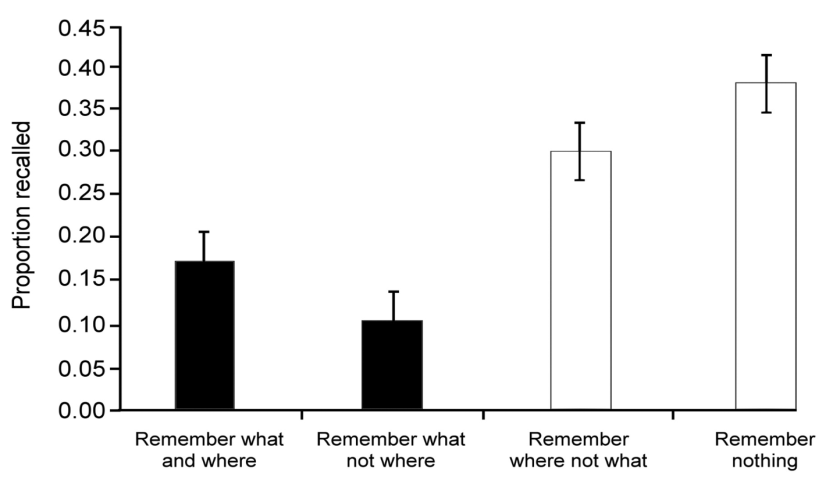
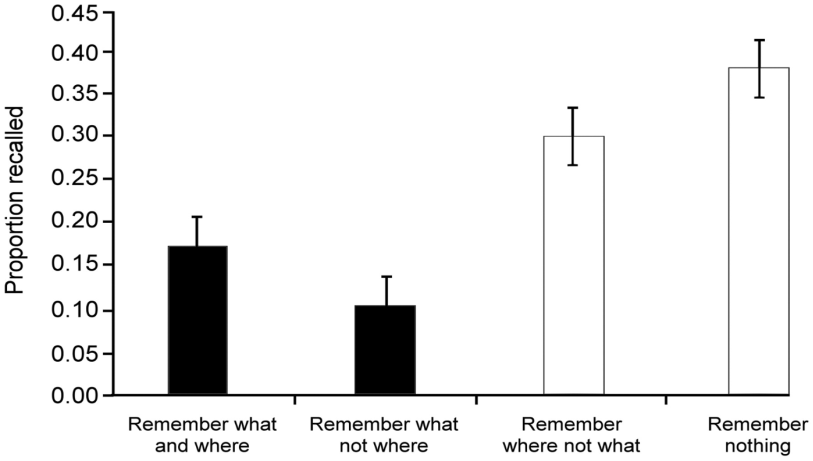
Standardize article figure presentation

Changed region(s): [[0.0, 0.0, 1.0, 1.0], [0.615, 0.9111, 0.7995, 1.0], [0.369, 0.9111, 0.5843, 1.0]]

diff --git a/articles/over-reliance-on-ai-and-student-cognition.html b/articles/over-reliance-on-ai-and-student-cognition.html
@@ -4,7 +4,7 @@
     <meta charset="UTF-8">
     <meta name="viewport" content="width=device-width, initial-scale=1.0">
     <title>Over-Reliance on AI and the Decline of Student Cognitive Skills — The Behavioral Review</title>
-    <meta name="description" content="Karthikeya R. Nandi examines how over-reliance on AI in education may weaken students' critical thinking and decision-making, and outlines practical solutions for preserving cognitive skills.">
+    <meta name="description" content="Karthikeya Nandi examines how over-reliance on AI in education may weaken students' critical thinking and decision-making, and outlines practical solutions for preserving cognitive skills.">
     <meta name="keywords" content="Artificial Intelligence, Education, Critical Thinking, Decision-Making, Cognitive Psychology, Student Learning, Technology, Higher Education">
     <meta property="og:title" content="Over-Reliance on AI and the Decline of Student Cognitive Skills">
     <meta property="og:description" content="A behavioral science analysis of how AI dependence in education can undermine critical thinking, attention, and decision-making if students prioritize answers over understanding.">
@@ -23,7 +23,7 @@
       "headline": "Over-Reliance on AI and the Decline of Student Cognitive Skills",
       "author": {
         "@type": "Person",
-        "name": "Karthikeya R. Nandi",
+        "name": "Karthikeya Nandi",
         "affiliation": {
           "@type": "CollegeOrUniversity",
           "name": "University of South Florida"
@@ -38,7 +38,7 @@
       "articleSection": "Behavioral Science",
       "keywords": ["Artificial Intelligence", "Education", "Critical Thinking", "Decision-Making", "Cognitive Psychology", "Student Learning", "Technology", "Higher Education"],
       "url": "https://thebehavioralreview.com/articles/over-reliance-on-ai-and-student-cognition.html",
-      "description": "Karthikeya R. Nandi examines how over-reliance on AI in education may weaken students' critical thinking and decision-making, and outlines practical solutions for preserving cognitive skills."
+      "description": "Karthikeya Nandi examines how over-reliance on AI in education may weaken students' critical thinking and decision-making, and outlines practical solutions for preserving cognitive skills."
     }
     </script>
     <link rel="stylesheet" href="../styles.css">
@@ -75,7 +75,7 @@
         <div class="article-shell">
             <span class="article-category-pill">Behavioral Science</span>
             <h1 class="article-title">Over-Reliance on AI and the Decline of Student Cognitive Skills</h1>
-            <p class="article-byline"><a href="../authors/karthikeya-r-nandi.html" class="author-profile-link">Karthikeya R. Nandi</a></p>
+            <p class="article-byline"><a href="../authors/karthikeya-r-nandi.html" class="author-profile-link">Karthikeya Nandi</a></p>
             <p class="article-affiliation" data-static-affiliation="true"><em>Biomedical Sciences Student</em><br><em>University of South Florida</em></p>
             <div class="article-meta" aria-label="Article metadata">
                 <span>Behavioral Science</span>

diff --git a/main.js b/main.js
@@ -7,7 +7,7 @@ var ARTICLES = [
     {
         title: 'Over-Reliance on AI and the Decline of Student Cognitive Skills',
         authorId: 'karthikeya-r-nandi',
-        author: 'Karthikeya R. Nandi',
+        author: 'Karthikeya Nandi',
         major: 'Biomedical Sciences',
         institution: 'University of South Florida',
         categories: ['Behavioral Science'],
@@ -15,7 +15,7 @@ var ARTICLES = [
         tags: ['Artificial Intelligence', 'Education', 'Critical Thinking', 'Decision-Making', 'Cognitive Psychology', 'Student Learning', 'Technology', 'Higher Education'],
         date: 'July 2026',
         readingWordCount: 3050,
-        preview: 'Karthikeya R. Nandi argues that growing student dependence on AI can come at a cognitive cost. When students prioritize fast answers over understanding, over-reliance may weaken conceptual learning, reduce attention, and erode independent decision-making. Drawing on evidence about note-taking, media multitasking, memory externalization, and AI trust effects, the article shows how convenience-driven usage can gradually displace critical engagement. Rather than rejecting AI, Nandi proposes that schools adopt AI literacy instruction, process-focused assignments, and explicit guidance that treats AI as a supplement to human thought, not a substitute.',
+        preview: 'Karthikeya Nandi argues that growing student dependence on AI can come at a cognitive cost. When students prioritize fast answers over understanding, over-reliance may weaken conceptual learning, reduce attention, and erode independent decision-making. Drawing on evidence about note-taking, media multitasking, memory externalization, and AI trust effects, the article shows how convenience-driven usage can gradually displace critical engagement. Rather than rejecting AI, Nandi proposes that schools adopt AI literacy instruction, process-focused assignments, and explicit guidance that treats AI as a supplement to human thought, not a substitute.',
         link: 'articles/over-reliance-on-ai-and-student-cognition.html'
     },
     {

diff --git a/authors/karthikeya-r-nandi.html b/authors/karthikeya-r-nandi.html
@@ -3,10 +3,10 @@
 <head>
     <meta charset="UTF-8">
     <meta name="viewport" content="width=device-width, initial-scale=1.0">
-    <title>Karthikeya R. Nandi — The Behavioral Review</title>
-    <meta name="description" content="Profile for Karthikeya R. Nandi, a Biomedical Sciences student at the University of South Florida and contributor to The Behavioral Review.">
-    <meta property="og:title" content="Karthikeya R. Nandi — The Behavioral Review">
-    <meta property="og:description" content="Author profile and published articles for Karthikeya R. Nandi on The Behavioral Review.">
+    <title>Karthikeya Nandi — The Behavioral Review</title>
+    <meta name="description" content="Profile for Karthikeya Nandi, a Biomedical Sciences student at the University of South Florida and contributor to The Behavioral Review.">
+    <meta property="og:title" content="Karthikeya Nandi — The Behavioral Review">
+    <meta property="og:description" content="Author profile and published articles for Karthikeya Nandi on The Behavioral Review.">
     <meta property="og:type" content="profile">
     <meta property="og:url" content="https://thebehavioralreview.com/authors/karthikeya-r-nandi.html">
     <meta property="og:image" content="https://thebehavioralreview.com/TBR.png">
@@ -43,7 +43,7 @@
     <header class="page-header">
         <div class="container">
             <p class="author-profile-eyebrow">Contributor Profile</p>
-            <h1 data-author-name="karthikeya-r-nandi">Karthikeya R. Nandi</h1>
+            <h1 data-author-name="karthikeya-r-nandi">Karthikeya Nandi</h1>
             <p class="author-profile-subtitle" data-author-institution="karthikeya-r-nandi" data-author-institution-mode="normalized">Biomedical Sciences student at the University of South Florida</p>
         </div>
     </header>

diff --git a/authors.js b/authors.js
@@ -142,10 +142,10 @@
         },
         'karthikeya-r-nandi': {
             id: 'karthikeya-r-nandi',
-            name: 'Karthikeya R. Nandi',
+            name: 'Karthikeya Nandi',
             major: 'Biomedical Sciences',
             institution: 'University of South Florida',
-            bio: 'Karthikeya R. Nandi is a Biomedical Sciences student at the University of South Florida. His work examines artificial intelligence, cognition, and decision-making in educational settings.',
+            bio: 'Karthikeya Nandi is a Biomedical Sciences student at the University of South Florida. His work examines artificial intelligence, cognition, and decision-making in educational settings.',
             profilePath: 'authors/karthikeya-r-nandi.html'
         },
         'sisira-yerrajennu': {

diff --git a/styles.css b/styles.css
@@ -2064,13 +2064,16 @@ img {
 }
 
 .article-figure {
-    margin: 2rem auto 2rem;
-    text-align: center;
+    width: min(100%, 760px);
+    margin: 2.25rem auto;
+    padding: 0;
 }
 
 .article-figure img {
     display: block;
-    max-width: 67%;
+    width: 100%;
+    max-width: 100%;
+    height: auto;
     margin: 0 auto;
     border: 1px solid var(--border-color);
     border-radius: 4px;
@@ -2078,10 +2081,12 @@ img {
 }
 
 .article-figure figcaption {
-    margin-top: 0.65rem;
+    width: 100%;
+    margin: 0.75rem auto 0;
     color: var(--text-light);
     font-size: 0.9rem;
     line-height: 1.6;
+    text-align: left;
 }
 
 .reference-list {
